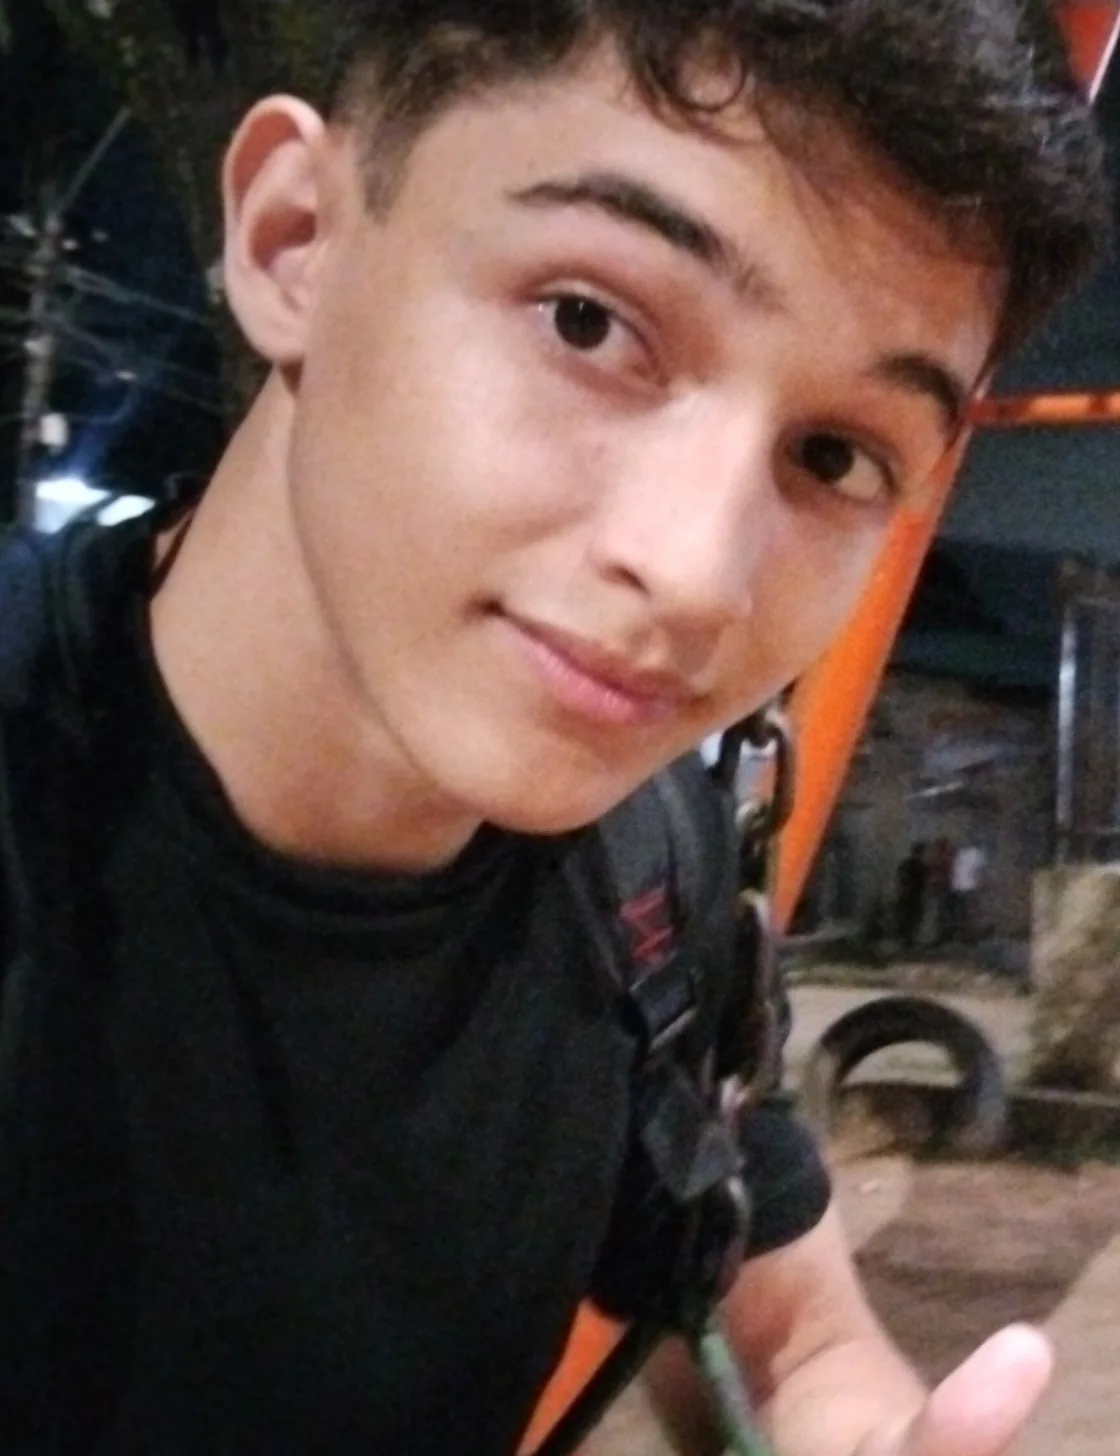
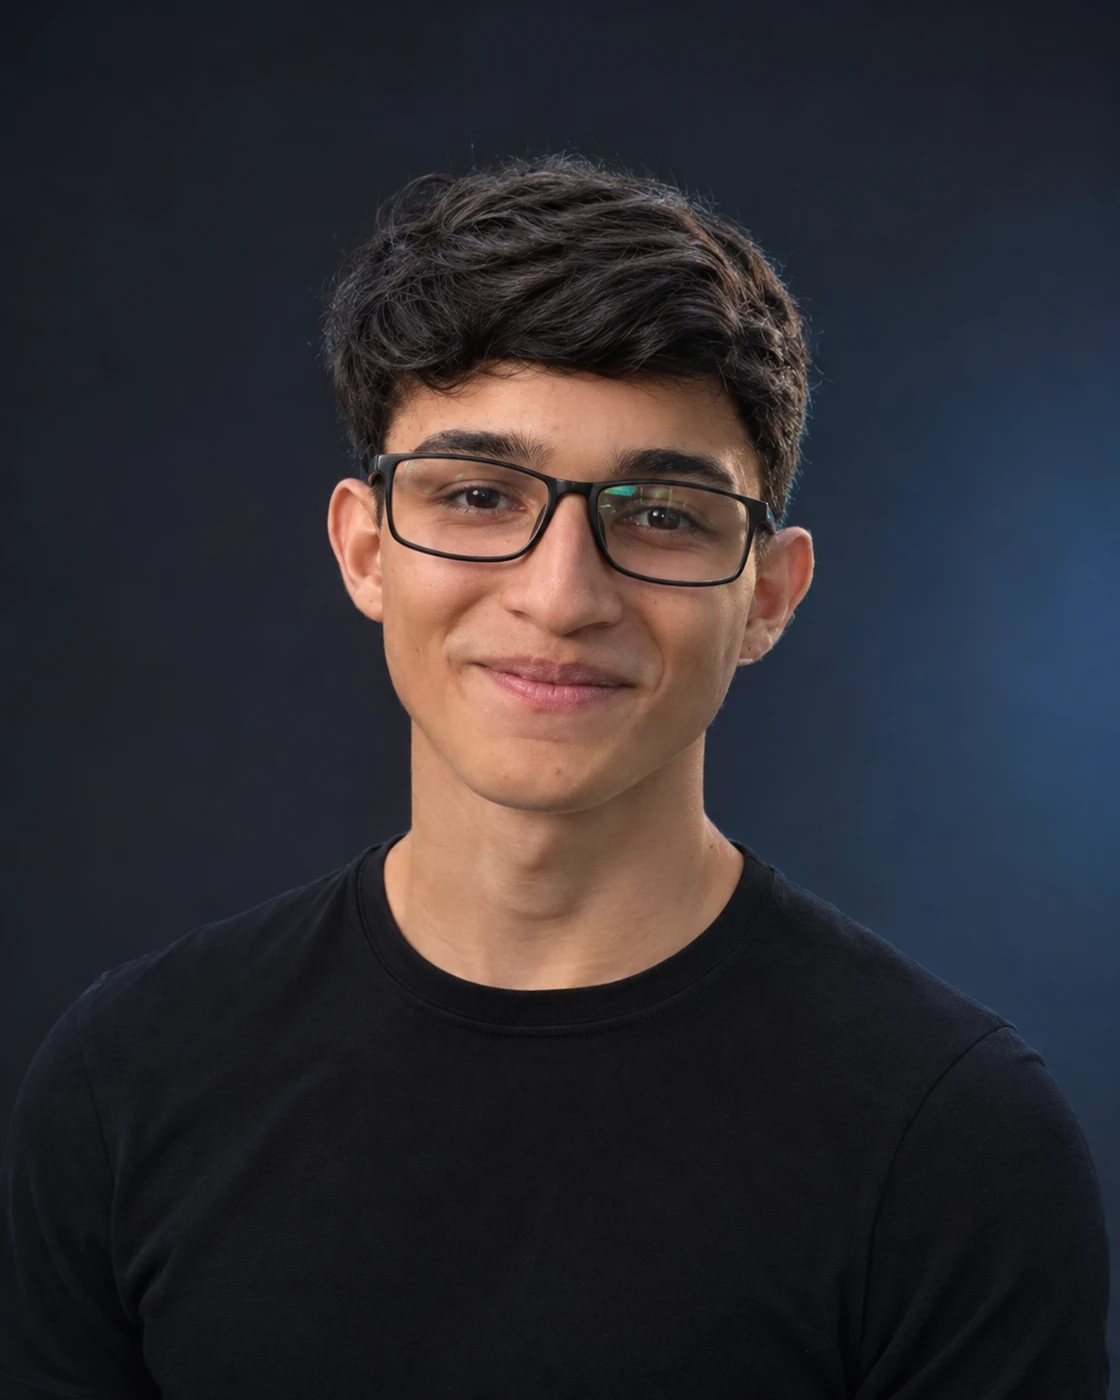
Refatore a estrutura do código para melhorar a legibilidade e a manutenção

diff --git a/client/src/components/Hero.tsx b/client/src/components/Hero.tsx
@@ -1,10 +1,15 @@
 import { ArrowDownRight, ArrowUpRight, Github, MapPin } from "lucide-react";
 import { identity } from "@/content/portfolio";
 import { useLanguage } from "@/contexts/LanguageContext";
+import { useTheme } from "@/contexts/ThemeContext";
 import Reveal from "@/components/motion/Reveal";
 
 export default function Hero() {
   const { t } = useLanguage();
+  const { theme } = useTheme();
+  const portraitBase =
+    theme === "light" ? "/media/mateus-light" : "/media/mateus";
+
   return (
     <section id="inicio" className="shell hero" aria-labelledby="hero-title">
       <Reveal className="hero-body" delay={40}>
@@ -40,11 +45,11 @@ export default function Hero() {
         <figure className="portrait">
           <div className="portrait-frame">
             <img
-              src="/media/mateus-800.webp"
-              srcSet="/media/mateus-480.webp 480w, /media/mateus-800.webp 800w, /media/mateus-1120.webp 1120w"
+              src={`${portraitBase}-800.webp`}
+              srcSet={`${portraitBase}-480.webp 480w, ${portraitBase}-800.webp 800w, ${portraitBase}-1120.webp 1120w`}
               sizes="(min-width: 1250px) 410px, (min-width: 900px) 35vw, (min-width: 700px) 34vw, (min-width: 520px) 440px, 88vw"
               width={800}
-              height={1040}
+              height={1000}
               fetchPriority="high"
               alt={`${identity.name} — ${t.role}`}
             />

diff --git a/client/public/theme.js b/client/public/theme.js
@@ -1,6 +1,8 @@
 document.documentElement.classList.add("js");
+let theme = "dark";
 try {
   if (localStorage.getItem("theme") === "light") {
+    theme = "light";
     document.documentElement.dataset.theme = "light";
     document.documentElement.classList.remove("dark");
     document.querySelector('meta[name="theme-color"]').content = "#f5f6f8";
@@ -8,3 +10,20 @@ try {
 } catch {
   // The default theme is provided by the document.
 }
+
+const portraitBase =
+  theme === "light" ? "/media/mateus-light" : "/media/mateus";
+const portraitPreload = document.createElement("link");
+portraitPreload.rel = "preload";
+portraitPreload.as = "image";
+portraitPreload.href = `${portraitBase}-800.webp`;
+portraitPreload.setAttribute(
+  "imagesrcset",
+  `${portraitBase}-480.webp 480w, ${portraitBase}-800.webp 800w, ${portraitBase}-1120.webp 1120w`
+);
+portraitPreload.setAttribute(
+  "imagesizes",
+  "(min-width: 1250px) 410px, (min-width: 900px) 35vw, (min-width: 700px) 34vw, (min-width: 520px) 440px, 88vw"
+);
+portraitPreload.setAttribute("fetchpriority", "high");
+document.head.append(portraitPreload);

diff --git a/client/src/components/Footer.tsx b/client/src/components/Footer.tsx
@@ -5,6 +5,8 @@ import { Brand } from "./SiteHeader";
 
 export default function Footer() {
   const { t } = useLanguage();
+  const currentYear = new Date().getFullYear();
+
   return (
     <footer className="footer">
       <div className="shell">
@@ -39,9 +41,8 @@ export default function Footer() {
         </div>
         <div className="footer-bottom">
           <small>
-            © {new Date().getFullYear()} {identity.name}. {t.rights}
+            © 2025–{currentYear} {identity.name}. {t.rights}
           </small>
-          <a href="#privacidade">{t.privacy}</a>
           <a href="#inicio">
             {t.top}
             <ArrowUp size={14} aria-hidden="true" />

diff --git a/client/index.html b/client/index.html
@@ -18,14 +18,6 @@
       type="font/woff2"
       crossorigin
     />
-    <link
-      rel="preload"
-      as="image"
-      href="/media/mateus-800.webp"
-      imagesrcset="/media/mateus-480.webp 480w, /media/mateus-800.webp 800w, /media/mateus-1120.webp 1120w"
-      imagesizes="(min-width: 1250px) 410px, (min-width: 900px) 35vw, (min-width: 700px) 34vw, (min-width: 520px) 440px, 88vw"
-      fetchpriority="high"
-    />
     <meta property="og:type" content="website" />
     <meta property="og:site_name" content="Theeussx" />
     <meta property="og:locale" content="pt_BR" />

diff --git a/client/src/index.css b/client/src/index.css
@@ -491,7 +491,7 @@ html:not(.js) .site-nav {
   overflow: hidden;
   border: 1px solid var(--border);
   border-radius: 0.25rem 0.25rem 0 0;
-  background: var(--surface);
+  background: var(--background);
 }
 .portrait-frame img {
   width: 100%;
